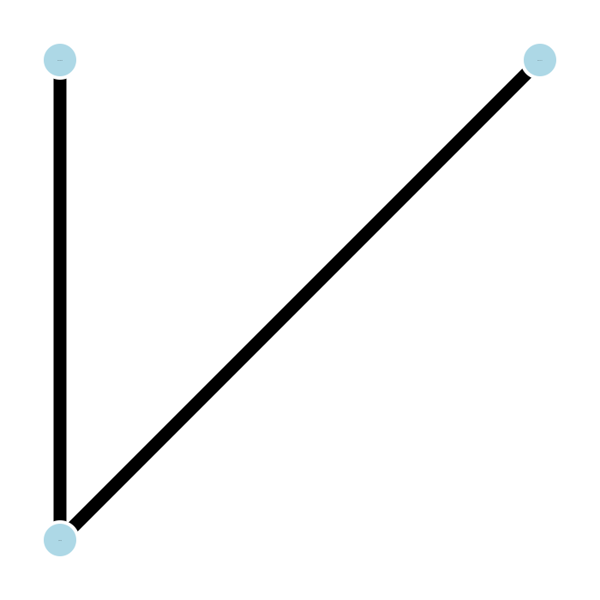
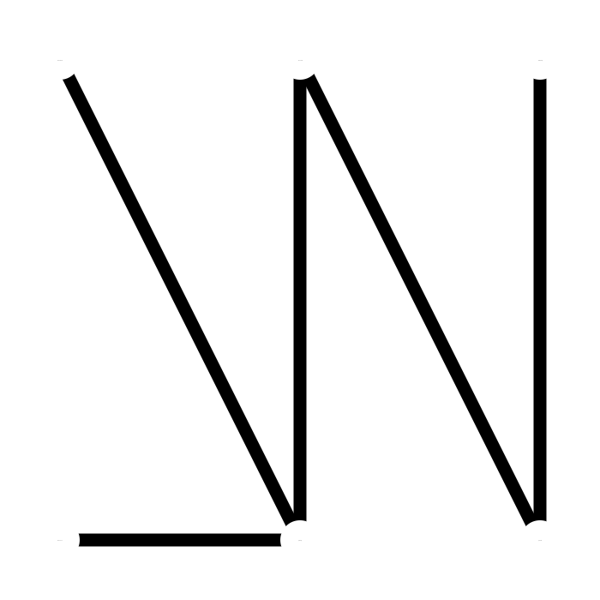
Bug fixes in simulation

Changed region(s): [[0.06, 0.06, 0.93, 0.93]]

diff --git a/src/LALR.py b/src/LALR.py
@@ -925,7 +925,7 @@ def p_c1(token):
         id_list.append(state.id)
     
     if(token[4] not in id_list):
-        print("Error: El id del estado inicial no existe en la lista de estados")
+        print("Error: El id del estado inicial no existe en la lista de estados.")
         exit(1)
     token[0] = Behaviour(token[2], token[4], token[6])
 
@@ -947,7 +947,7 @@ def p_c3(token):
         id_list.append(state.id)
     
     if(token[4] not in id_list):
-        print("Error: El id del estado inicial no existe en la lista de estados")
+        print("Error: El id del estado inicial no existe en la lista de estados.")
         exit(1)
     token[0] = Behaviour(token[2], token[4])
 
@@ -1210,7 +1210,7 @@ def check_ids(id_list):
     aux_list = []
     for id in id_list:
         if(id in aux_list):
-            print("Error: id duplicado")
+            print("Error: id duplicado.")
             exit(1)
         aux_list.append(id)
 
@@ -1220,7 +1220,7 @@ def check_corridor_conns(corridor_list, room_ids_list):
         connections = corridor.connection_list
         for connection in connections:
             if(connection not in room_ids_list):
-                print("Error: Los ids de las conexiones no son ids de habitaciones")
+                print("Error: Los ids de las conexiones no son ids de habitaciones.")
                 exit(1)
 
 # Check if transition ids are actually state ids
@@ -1229,7 +1229,7 @@ def check_trans_id(room_list, state_ids):
         transitions = room.automaton.transitions
         for transition in transitions:
             if(transition.source_state not in state_ids or transition.target_state not in state_ids):
-                print("Error: los ids de estados no corresponden a estados")
+                print("Error: los ids de estados no corresponden a estados.")
                 exit(1)
 
 # Check if transition combinations have the same number of digits as sensors in the room    
@@ -1238,7 +1238,7 @@ def check_trans_comb(room_list, sensor_count):
         transitions = room.automaton.transitions
         for transition in transitions: 
             if(sensor_count != len(transition.combination)):
-                print("Error: la combinación de transición no tiene la misma longitud que el número de sensores")
+                print("Error: la combinación de transición no tiene la misma longitud que el número de sensores.")
                 exit(1)
 
 # Main

diff --git a/src/simulation.py b/src/simulation.py
@@ -731,17 +731,17 @@ class Simulation(object):
 
         message_log = ''
 
-        if room.light_intensity == '':
+        if str(room.light_intensity) == '':
             message_log += '¡La intensidad luminosa no puede estar vacía!\n'
         else:
-            if room.light_intensity[0] == '.' or \
-                room.light_intensity[len(room.light_intensity)-1] == '.':
+            if str(room.light_intensity)[0] == '.' or \
+                str(room.light_intensity)[len(str(room.light_intensity))-1] == '.':
                 message_log += '¡El valor para la intensidad luminosa es incorrecto!\n'
 
-        if room.time == '':
+        if str(room.time) == '':
             message_log += '¡La hora no puede estar vacía!\n'
         else:
-            time_split = room.time.split(':')
+            time_split = str(room.time).split(':')
             if len(time_split) != 2:
                 message_log += '¡El formato de la hora o minutos es incorrecto! (Formato: HH:MM)\n'
             else:
@@ -753,18 +753,18 @@ class Simulation(object):
                         message_log += '¡Los valores de la hora o minutos son incorrectos! \
                             (Hora: de 00 a 23 | Minutos: de 00 a 59)\n'
 
-        if room.temperature == '':
+        if str(room.temperature) == '':
             message_log += '¡La temperatura no puede estar vacía!\n'
         else:
-            if room.temperature[0] == '.' or \
-                room.temperature[len(room.temperature)-1] == '.':
+            if str(room.temperature)[0] == '.' or \
+                str(room.temperature)[len(str(room.temperature))-1] == '.':
                 message_log += '¡El valor para la temperatura es incorrecto!\n'
 
-        if room.wind == '':
+        if str(room.wind) == '':
             message_log += '¡El valor para el viento no puede estar vacío!\n'
         else:
-            if room.wind[0] == '.' or \
-                room.wind[len(room.wind)-1] == '.':
+            if str(room.wind)[0] == '.' or \
+                str(room.wind)[len(str(room.wind))-1] == '.':
                 message_log += '¡El valor para el viento es incorrecto!\n'
 
         if message_log != '':

diff --git a/src/Main.py b/src/Main.py
@@ -14,6 +14,7 @@ def simulate_house(house):
 
 def start_simulation(room_list, global_sensors, global_actuators):
     ''' Starts the simulation given the necessary parameters '''
+    room_list = check_repeated_rooms(room_list)
     num_vert = len(room_list)
 
     edge_list = {}
@@ -35,6 +36,17 @@ def start_simulation(room_list, global_sensors, global_actuators):
     sim.run()
 
 
+def check_repeated_rooms(room_list):
+    '''Checks if there are repeated rooms'''
+    final_rooms = []
+
+    for room in room_list:
+        if room not in final_rooms:
+            final_rooms.append(room)
+
+    return final_rooms
+
+
 def main():
     if len(sys.argv) == 1:
         logging.error('No file was provided. Try to provide a text file for the lexer to work.')
@@ -45,5 +57,3 @@ def main():
 
 if __name__ == '__main__':
     main()
-
-

diff --git a/src/graph.py b/src/graph.py
@@ -18,7 +18,7 @@ def create_graph(num_vert, edges, types, names):
         target = IMG_NAME,
         layout = lay,
         vertex_size = VERTEX_SIZE,
-        vertex_color = "lightblue",
+        vertex_color = "white",
         vertex_frame_width = VERTEX_FRAME_WIDTH,
         vertex_frame_color = "white",
         vertex_label = graph.vs["name"],
